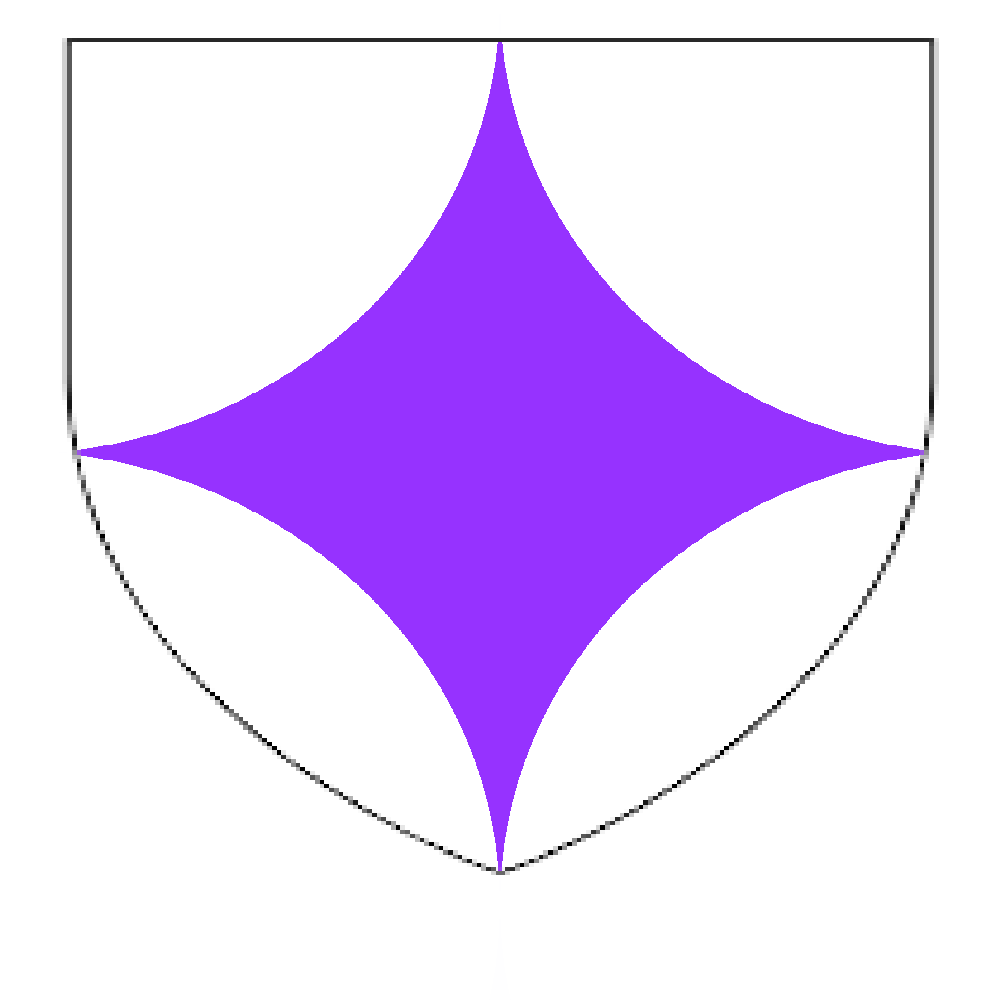
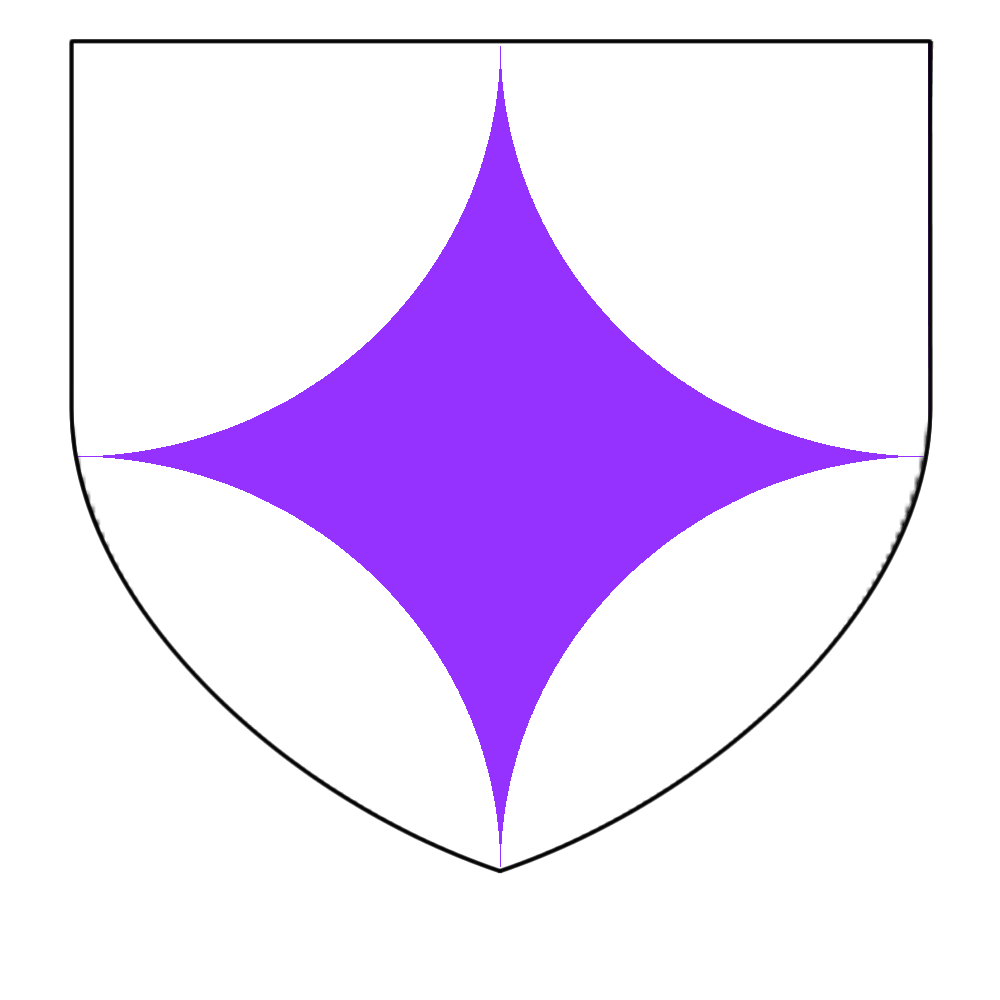
refactored vetu ploye to use location rect

diff --git a/field_geometries.py b/field_geometries.py
@@ -350,68 +350,72 @@ def get_per_chevron_inverted_throughout_field(tinctures, location):
     base_section = FieldSection(base_surface, base_mask)
     return Device("", [chief_section, base_section])
 
-def get_vetu_field(tinctures):
+def get_vetu_field(tinctures, location):
     '''
     Returns a Device with a vetu field.
     tinctures: a list of exactly two tinctures.
       The outer sections are the 0th tincture, and the inner
       lozenge is the 1st tincture.
+    location: a Rect representing the location on the screen of the vetu
+      portion of the field. For a vetu field on the full shield, the Rect should be 
+      Rect(kXMargin, kYMargin, kScreenWidth-2*kXMargin, kShieldBottom-kYMargin).
    '''
-    x_margin = 75
-    y_margin = int(kScreenHeight/23)
-    shield_bottom = int(kScreenHeight*0.87)
-    y_midpoint = int((y_margin + shield_bottom)/2)
     if len(tinctures) != 2:
         print ("A vetu field must have exactly two tinctures.")
         return Device("")
-    # Just do the whole field in the outer tincture
-    # and then stick the lozenge on top of it.
-    outer_boundary = [[0, 0], [0, kScreenHeight],
-                     [kScreenWidth, kScreenHeight], [kScreenWidth, 0]]
-    inner_boundary = [[int(kScreenWidth/2), y_margin],
-                      [kScreenWidth-x_margin, y_midpoint],
-                      [int(kScreenWidth/2), shield_bottom],
-                      [x_margin, y_midpoint]]
-    outer_section = FieldSection(outer_boundary, tincture = tinctures[0])
-    inner_section = FieldSection(inner_boundary, tincture = tinctures[1])
+    outer_boundary = [[location.centerx, location.top],
+                      [location.left, location.top], [location.left, location.bottom],
+                      [location.right, location.bottom], [location.right, location.top],
+                      [location.centerx, location.top], [location.left, location.centery],
+                      [location.centerx, location.bottom], [location.right, location.centery]]
+    inner_boundary = outer_boundary[5:]
+    size = (kScreenWidth, kScreenHeight)
+    outer_surface = pygame.Surface(size, 0, 32)
+    outer_surface.fill(tinctures[0])
+    outer_mask = pygame.Surface(size, 0, 32)
+    pygame.draw.polygon(outer_mask, kGrey, outer_boundary)
+    outer_section = FieldSection(outer_surface, outer_mask)
+    
+    inner_surface = pygame.Surface(size, 0, 32)
+    inner_surface.fill(tinctures[1])
+    inner_mask = pygame.Surface(size, 0, 32)
+    pygame.draw.polygon(inner_mask, kGrey, inner_boundary)
+    inner_section = FieldSection(inner_surface, inner_mask)
     return Device("", [outer_section, inner_section])
 
-def get_vetu_ploye_field(tinctures):
+def get_vetu_ploye_field(tinctures, location):
     '''
     Returns a Device with a vetu ploye field.
     tinctures: a list of exactly two tinctures.
       The outer sections are the 0th tincture, and the inner
       lozenge is the 1st tincture.
+    location: a Rect representing the location on the screen of the vetu ploye
+      portion of the field. For a vetu ploye field on the full shield, the Rect should be 
+      Rect(kXMargin, kYMargin, kScreenWidth-2*kXMargin, kShieldBottom-kYMargin).
+
    '''
-    x_margin = 75
-    y_margin = int(kScreenHeight/23)
-    shield_bottom = int(kScreenHeight*0.87)
-    y_midpoint = int((y_margin + shield_bottom)/2)
-    y_fudge_factor = 7
     if len(tinctures) != 2:
         print ("A vetu ploye field must have exactly two tinctures.")
         return Device("")
-    # Just do the whole field in the inner tincture
-    # and then stick the ellipses on top of it.
-    inner_boundary = [[0, 0], [0, kScreenHeight],
-                     [kScreenWidth, kScreenHeight], [kScreenWidth, 0]]
-    dexter_chief_rect = Rect(-1*kScreenWidth/2, -1*y_midpoint, kScreenWidth, y_midpoint*2)
-    sinister_chief_rect = Rect(kScreenWidth/2, -1*y_midpoint, kScreenWidth, y_midpoint*2)
-    dexter_base_rect = Rect(-1*kScreenWidth/2, y_midpoint-y_fudge_factor,
-                            kScreenWidth, y_midpoint*2)
-    sinister_base_rect = Rect(kScreenWidth/2, y_midpoint-y_fudge_factor,
-                              kScreenWidth, y_midpoint*2)
-    dexter_chief_section = FieldSection([], ellipse = dexter_chief_rect,
-                                        tincture = tinctures[0])
-    sinister_chief_section = FieldSection([], ellipse = sinister_chief_rect,
-                                        tincture = tinctures[0])
-    dexter_base_section = FieldSection([], ellipse = dexter_base_rect,
-                                        tincture = tinctures[0])
-    sinister_base_section = FieldSection([], ellipse = sinister_base_rect,
-                                        tincture = tinctures[0])
-    inner_section = FieldSection(inner_boundary, tincture=tinctures[1])
-    return Device("", [inner_section, dexter_chief_section, sinister_chief_section,
-                       dexter_base_section, sinister_base_section])
+    size = (kScreenWidth, kScreenHeight)
+    outer_surface = pygame.Surface(size, 0, 32)
+    outer_surface.fill(tinctures[0])
+    outer_mask = pygame.Surface(size, 0, 32)
+    # starburst_mask.png is already kGrey in the appropriate places
+    outer_mask_scaled = pygame.transform.scale(
+        pygame.image.load(os.path.join("art", "starburst_mask.png")),
+        (location.width, location.height))
+    outer_mask.blit(outer_mask_scaled, (location.left, location.top))
+    outer_section = FieldSection(outer_surface, outer_mask)
+
+    inner_surface = pygame.Surface(size, 0, 32)
+    inner_surface.fill(tinctures[1])
+    inner_mask = pygame.Surface(size, 0, 32)
+    inner_mask.fill(kGrey)
+    inner_section = FieldSection(inner_surface, inner_mask)
+    # Order is important here: inner_section is just a solid color with no shape,
+    # so outer_section needs to be on top.
+    return Device("", [inner_section, outer_section])
 
 def get_per_pall_field(tinctures):
     '''

diff --git a/unified_field_tests.py b/unified_field_tests.py
@@ -33,10 +33,11 @@ field_geometries.get_per_saltire_field([kArgent, kPurpure], full_shield).display
 field_geometries.get_per_chevron_throughout_field([kPurpure, kArgent], full_shield).display_device()
 field_geometries.get_per_chevron_inverted_throughout_field([kPurpure, kArgent], full_shield).display_device()
 '''
-#################### BEGIN BROKEN SECTION
 # Vetu
-field_geometries.get_vetu_field([kArgent, kPurpure]).display_device()
-field_geometries.get_vetu_ploye_field([kArgent, kPurpure]).display_device()
+field_geometries.get_vetu_field([kArgent, kPurpure], full_shield).display_device()
+#################### BEGIN BROKEN SECTION
+long_skinny = Rect(300, 300, 50, 200)
+field_geometries.get_vetu_ploye_field([kArgent, kPurpure], full_shield).display_device()
 '''
 # Per pall (and inverted)
 field_geometries.get_per_pall_field([kArgent, kPurpure, kAzure]).display_device()

diff --git a/device_generator.py b/device_generator.py
@@ -43,11 +43,11 @@ class Device:
         for section in self.field_sections:
             section.surface.lock
             section.mask.lock
+            self.screen.lock
             for x in range(kScreenWidth):
                 for y in range(kScreenHeight):
                     if section.mask.get_at((x,y)) == kGrey:
                         self.screen.set_at((x,y), section.surface.get_at((x,y)))
-            #self.screen.blit(field_section.surface, field_section.blit_location)
         for charge in self.charge_groups:
             pass
             #charge.draw_charge()
